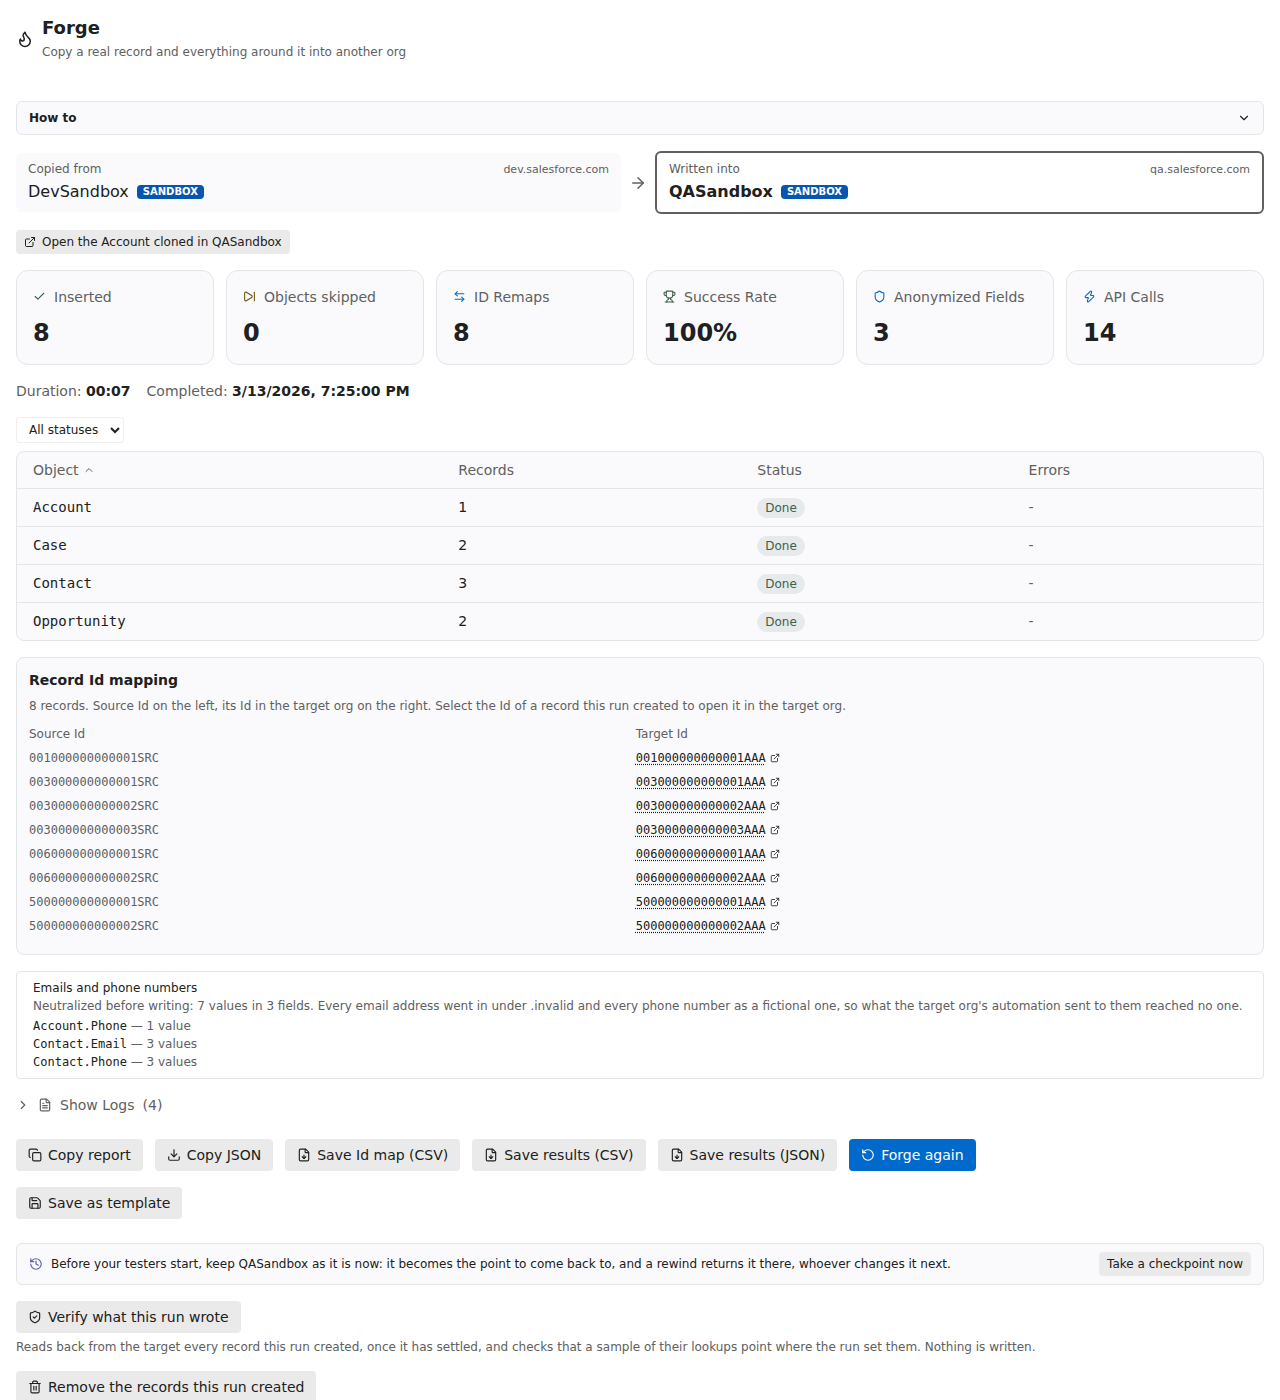
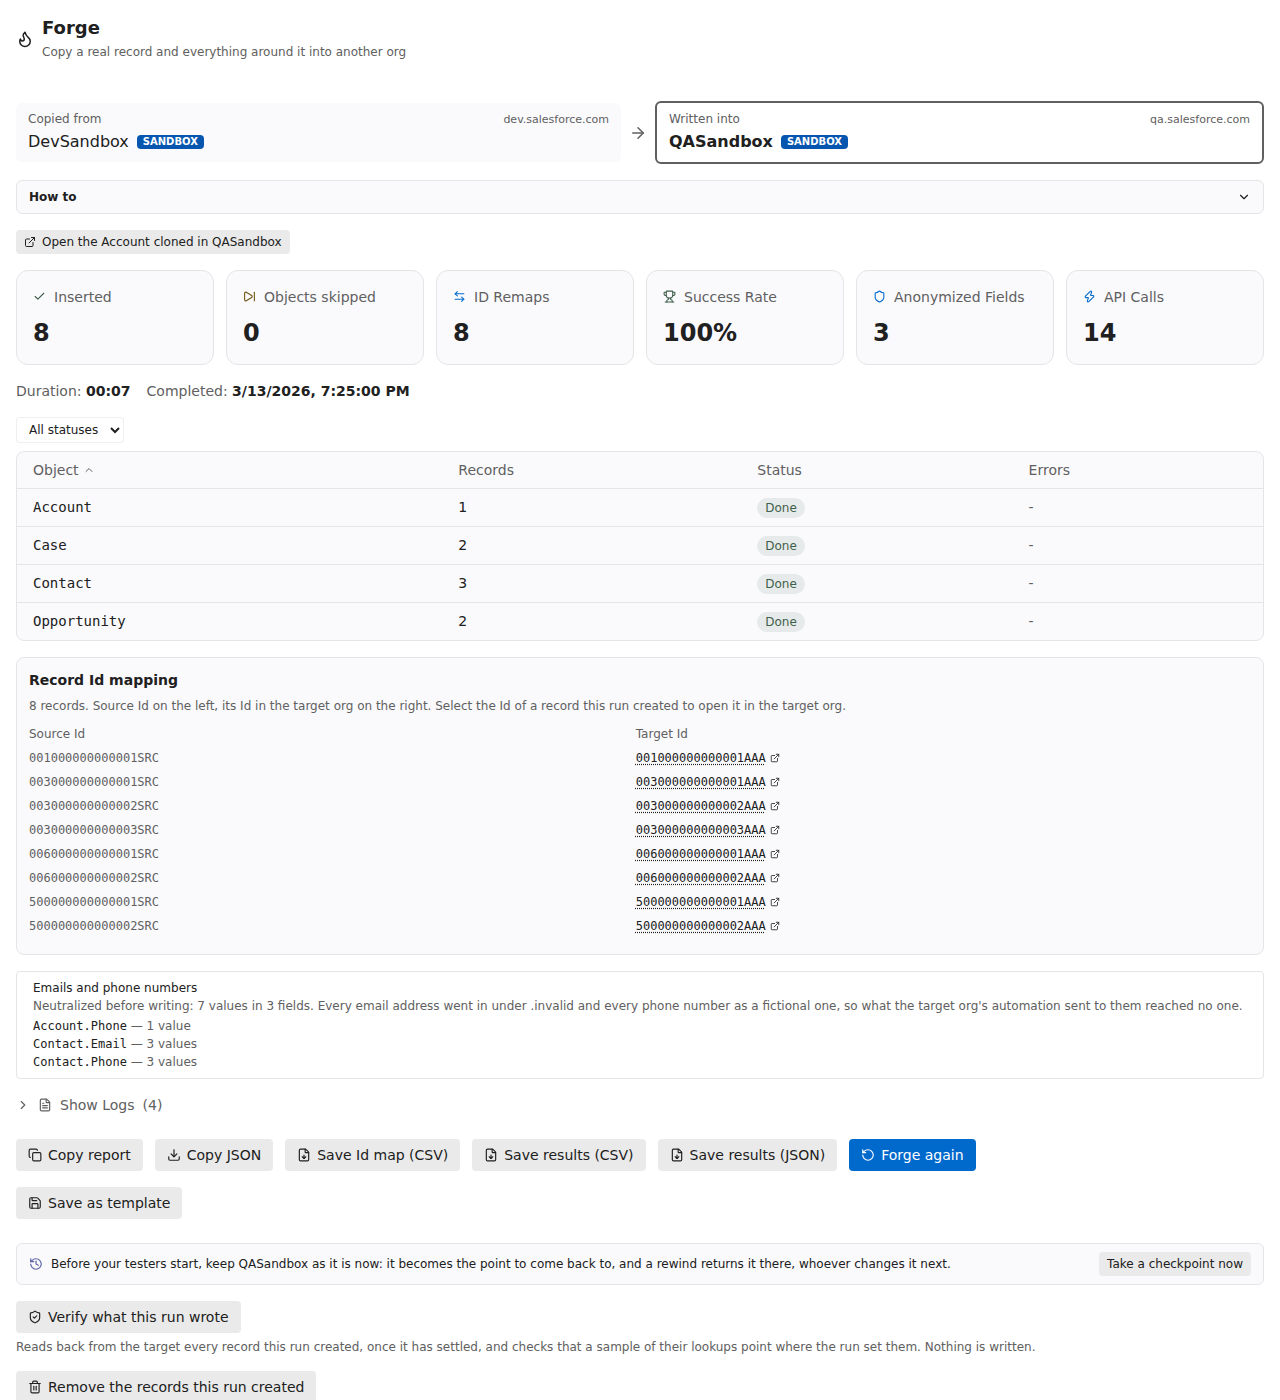
chore: release 1.74.0

Changed region(s): [[0.5, 0.0614, 1.0, 0.1536], [0.0312, 0.0614, 0.1562, 0.1536], [0.4062, 0.0614, 0.4688, 0.0921]]

diff --git a/packages/webview/src/pages/Welcome/WhatsNewPage.tsx b/packages/webview/src/pages/Welcome/WhatsNewPage.tsx
@@ -79,6 +79,32 @@ const CATEGORY_ICONS: Record<FeatureCategory, React.ReactNode> = {
  * adds no entry here shows no panel at all: from 1.44.3 on, a patch adds none.
  */
 export const WHATS_NEW: Readonly<Record<string, readonly Feature[]>> = {
+  '1.74.0': [
+    {
+      category: 'improvement',
+      titleKey: 'onboarding.whatsNew.review1740',
+      descKey: 'onboarding.whatsNew.review1740Desc',
+      navigateTo: 'forge',
+    },
+    {
+      category: 'feature',
+      titleKey: 'onboarding.whatsNew.reload1740',
+      descKey: 'onboarding.whatsNew.reload1740Desc',
+      navigateTo: 'frozen',
+    },
+    {
+      category: 'improvement',
+      titleKey: 'onboarding.whatsNew.team1740',
+      descKey: 'onboarding.whatsNew.team1740Desc',
+      navigateTo: 'forge',
+    },
+    {
+      category: 'fix',
+      titleKey: 'onboarding.whatsNew.counts1740',
+      descKey: 'onboarding.whatsNew.counts1740Desc',
+      navigateTo: 'sync',
+    },
+  ],
   '1.73.0': [
     {
       category: 'feature',

diff --git a/changelog.md b/changelog.md
@@ -5,6 +5,33 @@ All notable changes to SandForge will be documented in this file.
 The format is based on [Keep a Changelog](https://keepachangelog.com/en/1.1.0/),
 and this project adheres to [Semantic Versioning](https://semver.org/spec/v2.0.0.html).
 
+## [1.74.0] - 2026-11-04
+
+Forge's Review fits one screen, a Frozen reload takes back what automation made, and every gate counts what a run truly writes.
+
+### Added
+
+- **Frozen Dataset**: a reload can take back what automation made for the loads it replaces, listed and muted as a removal's sweep.
+- **Command line and MCP**: `sandforge-frozen load --reload --sweep`, `--sweep-late`, `--sweep-untied`; `--json` gains `writtenByThePlatform`.
+
+### Changed
+
+- **Autopilot, command line**: a run refused before writing gives a code per reason, the first under `refused`, the rest under `alsoRefused`.
+- **Removals, command line**: a refused `--sweep-untied` now exits 3 and reads `partial` in Frozen, clone, Sync and Seed; leave it off where other runs write.
+- **Frozen Dataset, command line**: `load --reload --sweep` reads `partial` when its sweep left records, and exits 1 writing nothing if its list cannot be read.
+- **Forge, command line**: `writePlan.totalRows` and `--max-total` leave out what the platform writes itself; read `writePlan.leftOut.byThePlatform`.
+
+### Fixed
+
+- **Forge**: Review fits 1280 by 800, Team Selling opportunities keep team and splits, and what the platform writes is not counted.
+- **Mute automation**: Review and rehearsals say a rule the mute lifts is lifted; a lease journal that cannot be written takes its set back.
+- **Sync**: the write gate and its question count what a left-out object holds back and the prices the run writes, as the run does.
+- **Frozen Dataset**: a sweep takes what a replaced load left, ends Partial when it leaves records, and says what it deleted before a stop.
+- **Seed, Autopilot**: a refused `--fit` gives two sizes that differ, and a lease refused at the start reads as a refused mute.
+- **Checkpoint**: files and Documents left out are named among what a checkpoint does not hold, in the reader's language.
+- **Compare, Frozen Dataset**: each org is named once, and one no longer held is said so in words, Run waiting for a new pick.
+- **Help**: Show What's New on a patch release shows its release instead of opening nothing.
+
 ## [1.73.1] - 2026-11-03
 
 Import from Salesforce CLI finds the orgs where the CLI printed its list out of the extension's reach.

diff --git a/packages/extension/CHANGELOG.md b/packages/extension/CHANGELOG.md
@@ -5,6 +5,33 @@ All notable changes to SandForge will be documented in this file.
 The format is based on [Keep a Changelog](https://keepachangelog.com/en/1.1.0/),
 and this project adheres to [Semantic Versioning](https://semver.org/spec/v2.0.0.html).
 
+## [1.74.0] - 2026-11-04
+
+Forge's Review fits one screen, a Frozen reload takes back what automation made, and every gate counts what a run truly writes.
+
+### Added
+
+- **Frozen Dataset**: a reload can take back what automation made for the loads it replaces, listed and muted as a removal's sweep.
+- **Command line and MCP**: `sandforge-frozen load --reload --sweep`, `--sweep-late`, `--sweep-untied`; `--json` gains `writtenByThePlatform`.
+
+### Changed
+
+- **Autopilot, command line**: a run refused before writing gives a code per reason, the first under `refused`, the rest under `alsoRefused`.
+- **Removals, command line**: a refused `--sweep-untied` now exits 3 and reads `partial` in Frozen, clone, Sync and Seed; leave it off where other runs write.
+- **Frozen Dataset, command line**: `load --reload --sweep` reads `partial` when its sweep left records, and exits 1 writing nothing if its list cannot be read.
+- **Forge, command line**: `writePlan.totalRows` and `--max-total` leave out what the platform writes itself; read `writePlan.leftOut.byThePlatform`.
+
+### Fixed
+
+- **Forge**: Review fits 1280 by 800, Team Selling opportunities keep team and splits, and what the platform writes is not counted.
+- **Mute automation**: Review and rehearsals say a rule the mute lifts is lifted; a lease journal that cannot be written takes its set back.
+- **Sync**: the write gate and its question count what a left-out object holds back and the prices the run writes, as the run does.
+- **Frozen Dataset**: a sweep takes what a replaced load left, ends Partial when it leaves records, and says what it deleted before a stop.
+- **Seed, Autopilot**: a refused `--fit` gives two sizes that differ, and a lease refused at the start reads as a refused mute.
+- **Checkpoint**: files and Documents left out are named among what a checkpoint does not hold, in the reader's language.
+- **Compare, Frozen Dataset**: each org is named once, and one no longer held is said so in words, Run waiting for a new pick.
+- **Help**: Show What's New on a patch release shows its release instead of opening nothing.
+
 ## [1.73.1] - 2026-11-03
 
 Import from Salesforce CLI finds the orgs where the CLI printed its list out of the extension's reach.

diff --git a/packages/extension/README.md b/packages/extension/README.md
@@ -4,7 +4,7 @@
 
 <!-- badges:start -->
 
-[![Version](https://img.shields.io/badge/version-1.73.1-blue)](https://marketplace.visualstudio.com/items?itemName=StephaneBerthoz.sandforge)
+[![Version](https://img.shields.io/badge/version-1.74.0-blue)](https://marketplace.visualstudio.com/items?itemName=StephaneBerthoz.sandforge)
 ![TypeScript](https://img.shields.io/badge/typescript-strict-blue)
 ![License](https://img.shields.io/badge/license-MIT-green)
 ![Languages](https://img.shields.io/badge/i18n-6%20languages-orange)

diff --git a/README.md b/README.md
@@ -13,7 +13,7 @@
 
 <!-- badges:start -->
 
-![Version](https://img.shields.io/badge/version-1.73.1-blue)
+![Version](https://img.shields.io/badge/version-1.74.0-blue)
 [![CI](https://github.com/StephaneBerthoz/sandforge/actions/workflows/ci.yml/badge.svg)](https://github.com/StephaneBerthoz/sandforge/actions/workflows/ci.yml)
 ![TypeScript](https://img.shields.io/badge/typescript-strict-blue)
 ![License](https://img.shields.io/badge/license-MIT-green)

diff --git a/SECURITY.md b/SECURITY.md
@@ -10,8 +10,8 @@ Only the latest minor on the marketplace receives security fixes.
 
 | Version | Supported |
 | ------- | --------- |
-| 1.73.x  | Yes       |
-| < 1.73  | No        |
+| 1.74.x  | Yes       |
+| < 1.74  | No        |
 
 ## Reporting a vulnerability
 
